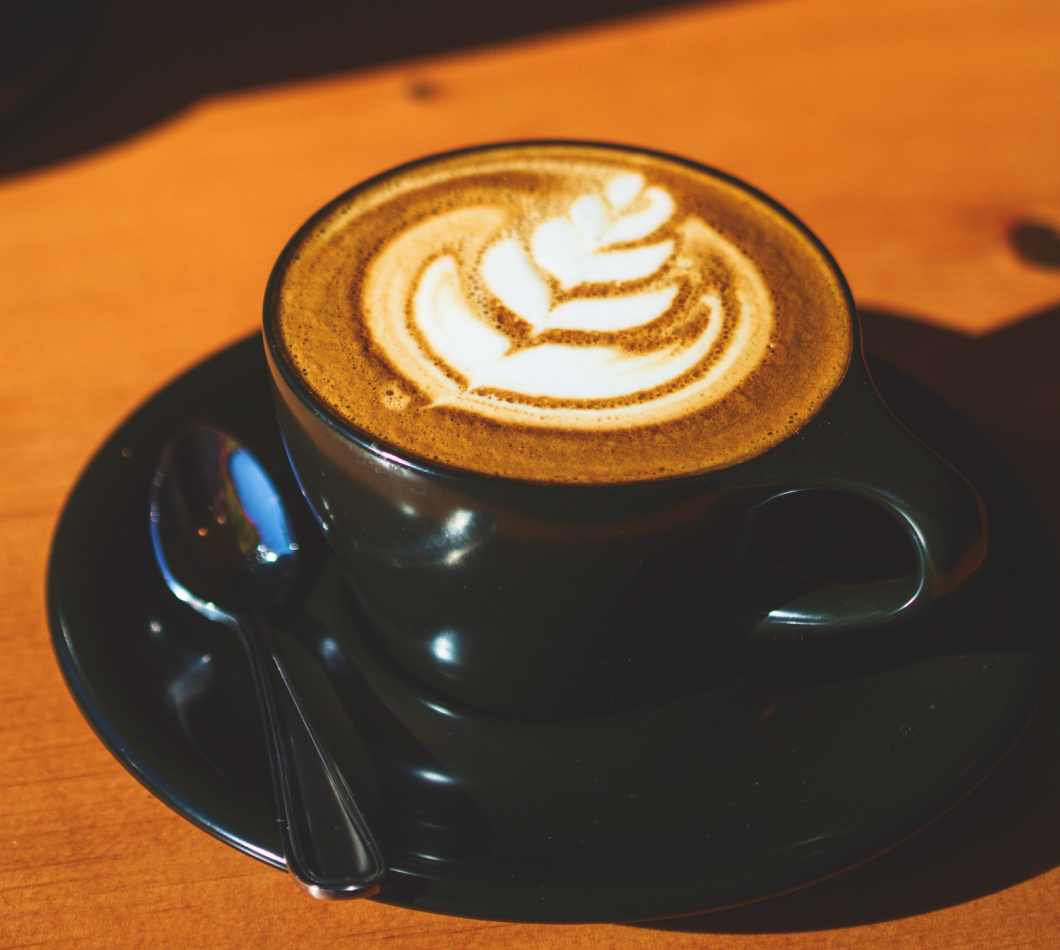
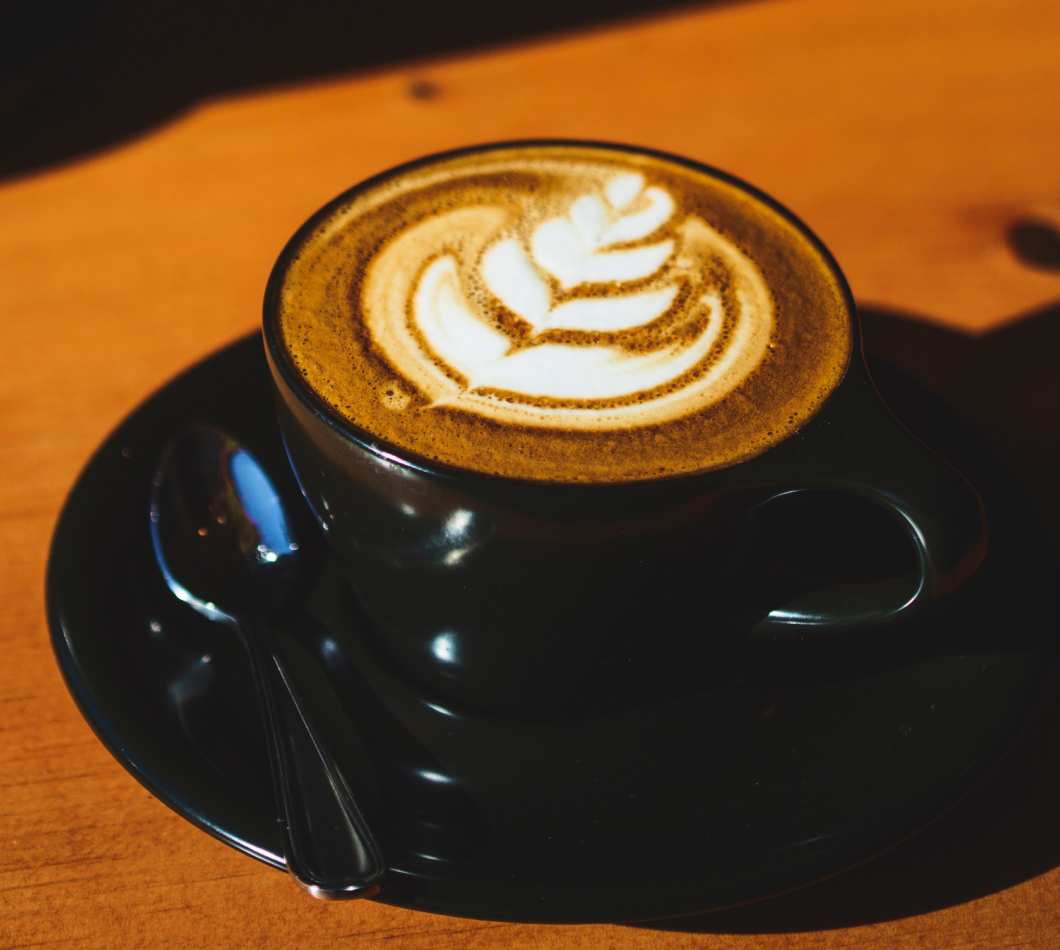
animation fix & photo adjustment levels

diff --git a/assets/css/main.css b/assets/css/main.css
@@ -51,7 +51,7 @@ a {
 }
 
 html, body {
-  overflow-x: hidden;
+  overflow-x: clip;
 }
 
 h1, h2 {
@@ -410,7 +410,7 @@ section#footer a {
   }
   .scrolling {
     animation: fadeIn 3s ease-in-out;
-    animation-range: entry;
+    animation-range: entry-crossing;
     animation-timeline: view(); /* Applies the animation based on scroll position */
   }
 }
